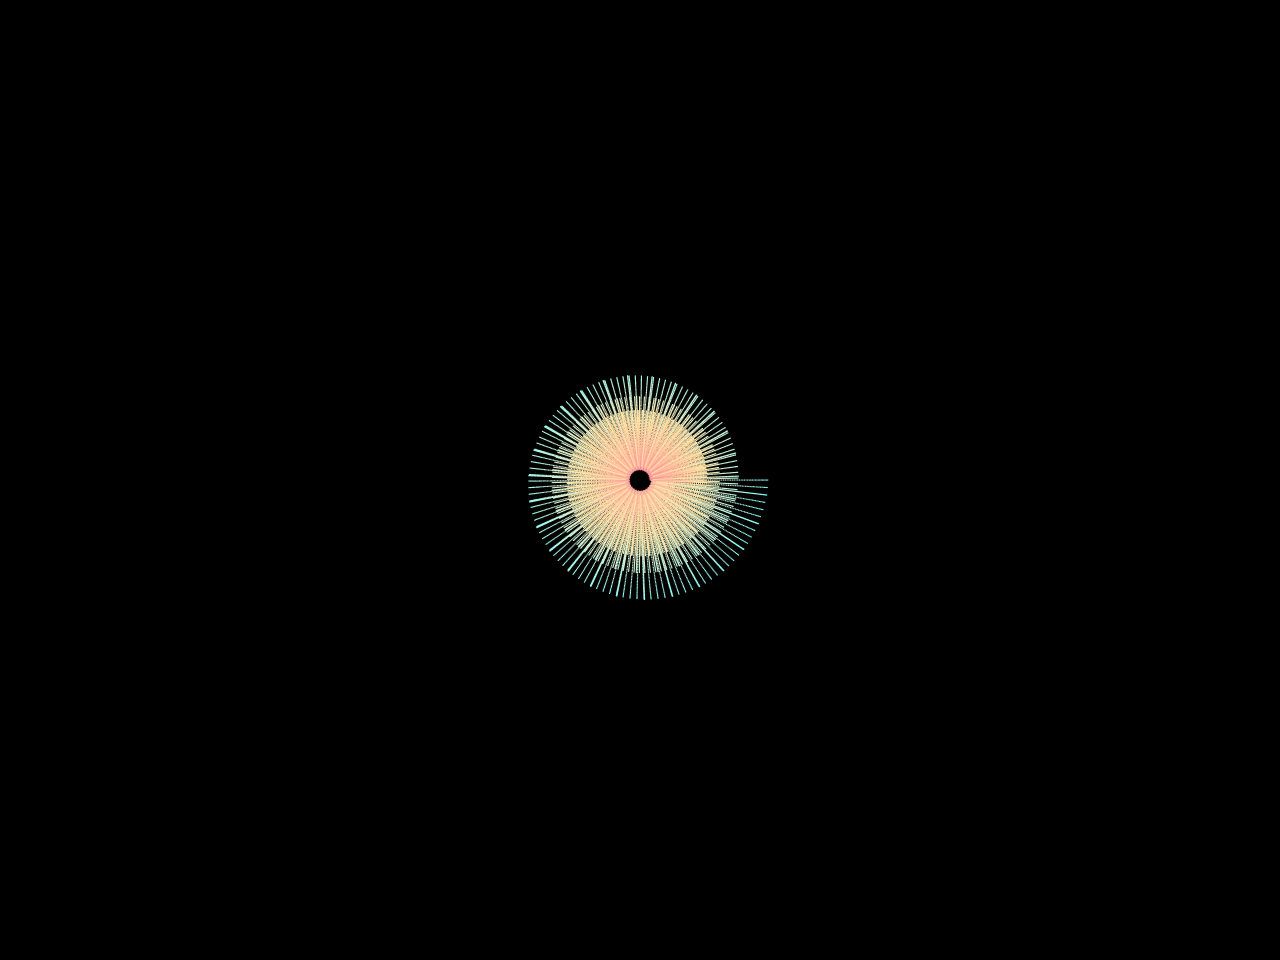
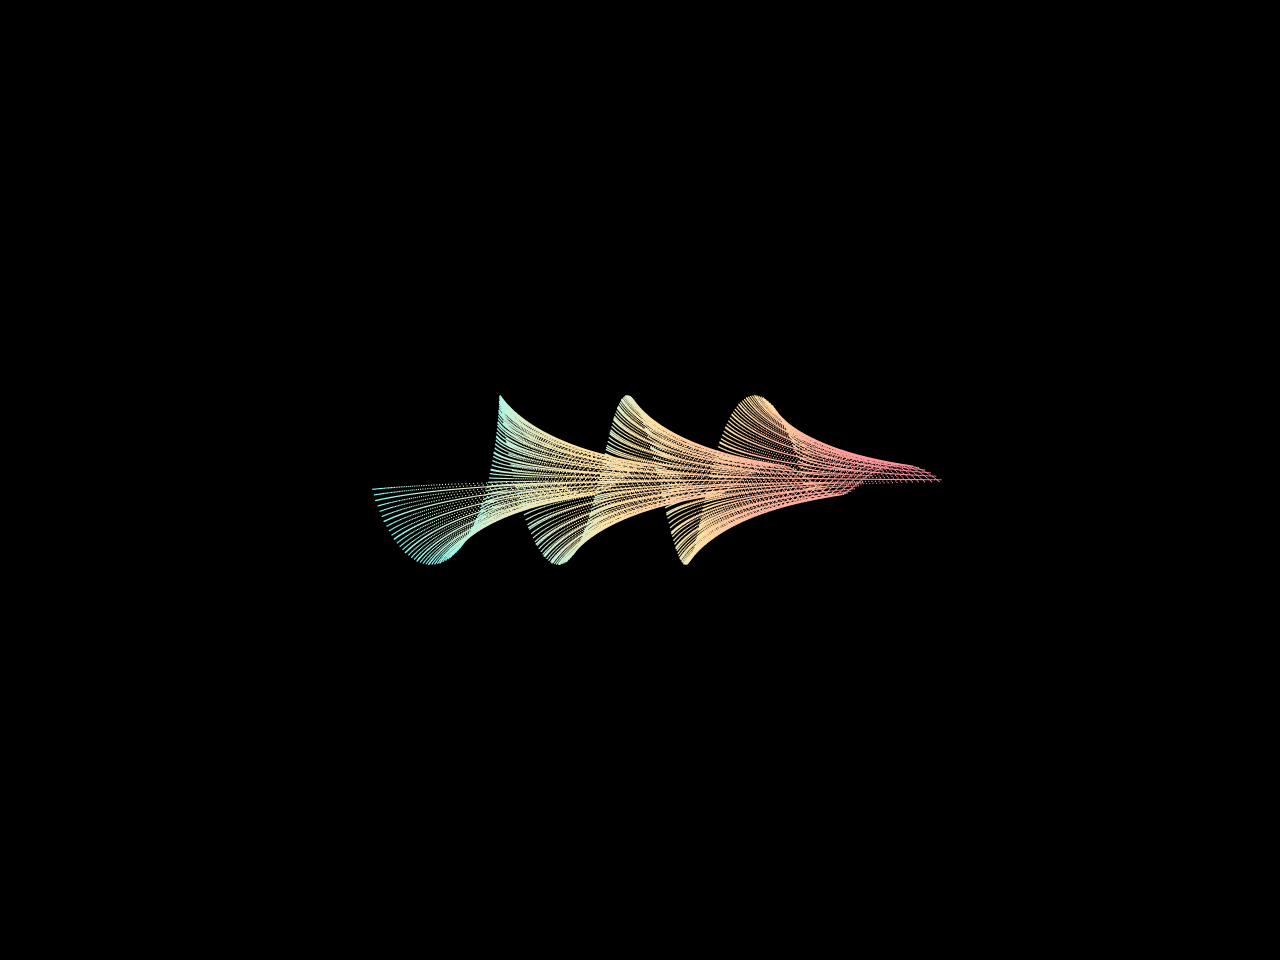
Default Dini camera to side view.

Changed region(s): [[0.2812, 0.375, 0.7188, 0.625]]

diff --git a/packages/frontend/src/pages/misc/dini_surface.tsx b/packages/frontend/src/pages/misc/dini_surface.tsx
@@ -73,7 +73,7 @@ const DiniSurface = () => {
 			numParticles={DINI_MAX_POINTS}
 			pointSize={1.15}
 			tick={tick}
-			cameraPosition={[0, 0, 3.7]}
+			cameraPosition={[3.6, 0.35, 0]}
 			autoRotate={!isScreenshotMode()}
 			autoRotateSpeed={0.32}
 		/>
